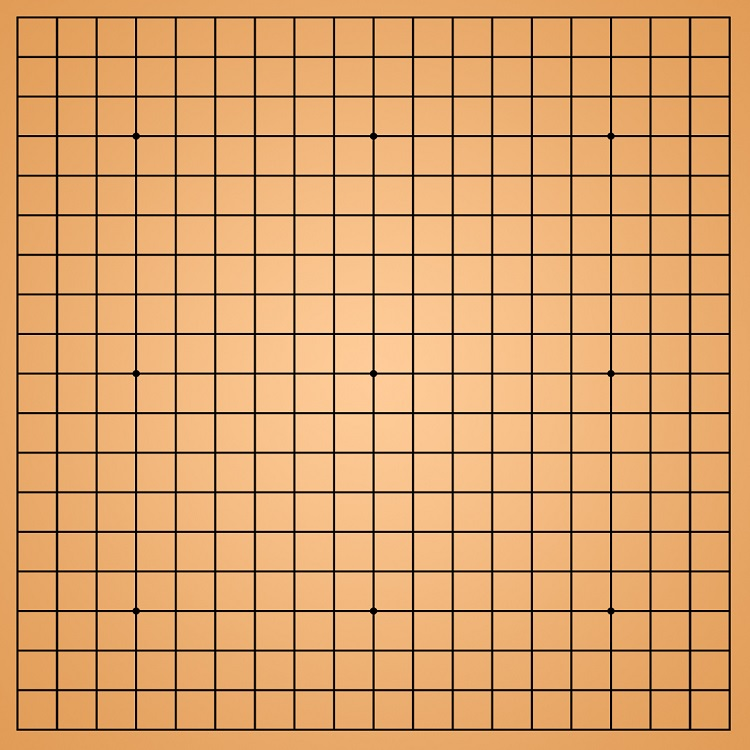
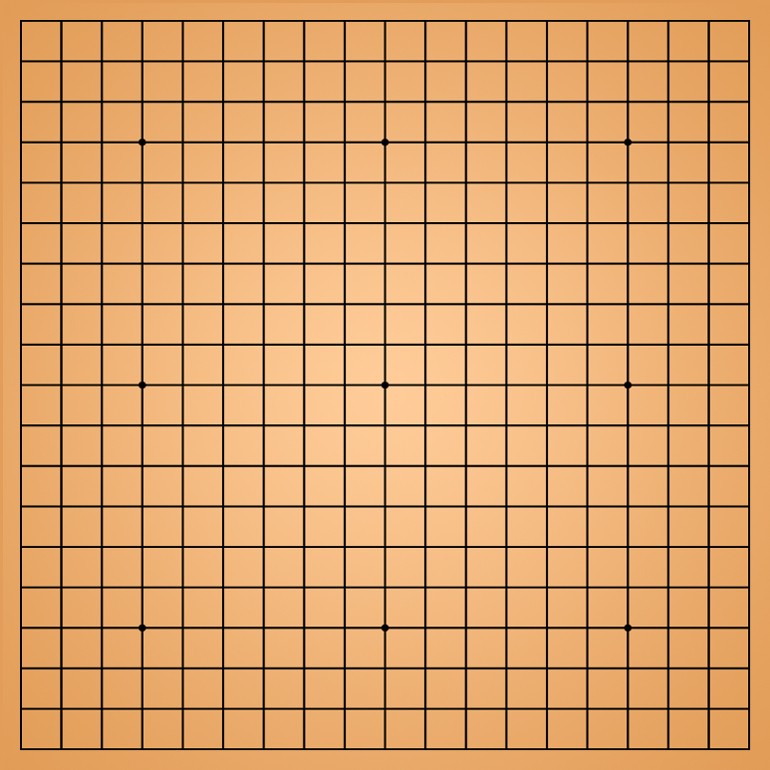
Put stones with mouse (PvP), update graphic and window size.

Changed region(s): [[0.0, 0.0, 0.9813, 0.9813]]

diff --git a/launcher.py b/launcher.py
@@ -2,74 +2,26 @@
 # -*- coding: utf-8 -*-
 # @author: beauge_z
 
-import sys, pygame
+import sys
+from options import *
+import gameplay
+
+import pygame
 
 class Launcher:
+    """
+    Class allowing pygame to load.
+    """
     pygame.init()
     pygame.display.set_caption('Gomoku')
-    screen = None
-    font = pygame.font.Font('./font/electroharmonix.ttf', 40)
-    class Option:
-        hover = False
-        def __init__(self, text, pos, mfont, screen, func):
-            self.text = text
-            self.pos = pos
-            self.mFont = mfont
-            self.screen = screen
-            self.setSurf()
-            self.draw()
-            self.func = func
-        def draw(self):
-            self.getRender()
-            self.screen.blit(self.render, self.surf)
-        def getRender(self):
-            self.render = self.mFont.render(self.text, True, self.getColor())
-        def getColor(self):
-            if self.hover:
-                return (232, 95, 137)
-            else:
-                return (0, 0, 0)
-        def setSurf(self):
-            self.getRender()
-            self.surf = self.render.get_rect()
-            self.surf.bottomright = self.pos
-
-    def loadPvP(self):
-        run = True
-        while run:
-            bg = pygame.image.load('./img/Goban.jpg')
-            self.screen.blit(bg, (0,0))
-            for e in pygame.event.get():
-                if e.type == pygame.QUIT:
-                    run = False
-                elif e.type == pygame.KEYDOWN:
-                    if e.key == pygame.K_ESCAPE:
-                        run = False
-            pygame.display.update()
-        return True
-
-    def loadPvAI(self):
-        run = True
-        while run:
-            bg = pygame.image.load('./img/Goban.jpg')
-            self.screen.blit(bg, (0,0))
-            for e in pygame.event.get():
-                if e.type == pygame.QUIT:
-                    run = False
-                elif e.type == pygame.KEYDOWN:
-                    if e.key == pygame.K_ESCAPE:
-                        run = False
-            pygame.display.update()
-        return True
-
-    def mQuit(self):
-        return False
-
+    pygame.display.set_icon(pygame.image.load('./img/ico.png'))
     def __init__(self):
-        self.screen = pygame.display.set_mode((750, 750))
-        self.options = [self.Option("Player VS Player", (730, 430), self.font, self.screen, self.loadPvP),
-                        self.Option("Player VS IA", (730, 480), self.font, self.screen, self.loadPvAI),
-                        self.Option("Quit", (730, 730), self.font, self.screen, self.mQuit)]
+        self.font = pygame.font.Font('./font/electroharmonix.ttf', 40)
+        self.screen = pygame.display.set_mode((770, 770))
+        self.options = [Option("Player VS Player", (750, 430), self.font, self.screen, gameplay.loadPvP),
+                        Option("Player VS IA", (750, 480), self.font, self.screen, gameplay.loadPvAI),
+                        Option("Quit", (750, 750), self.font, self.screen, gameplay.rFalse)]
+
     def launch(self):
         run = True
         while run:
@@ -86,16 +38,13 @@ class Launcher:
                     if option.surf.collidepoint(pygame.mouse.get_pos()):
                         option.hover = True
                         if e.type == pygame.MOUSEBUTTONDOWN and e.button == 1:
-                            run = option.func()
+                            run = option.func(self.screen, self.font)
                     else:
                         option.hover = False
                     option.draw()
             for option in self.options:
                 if option.surf.collidepoint(pygame.mouse.get_pos()):
                     option.hover = True
-                    for e in pygame.event.get():
-                        if e.type == pygame.MOUSEBUTTONDOWN and e.button == 1:
-                            run = option.func()
                 else:
                     option.hover = False
                 option.draw()

diff --git a/gameplay.py b/gameplay.py
@@ -1,0 +1,117 @@
+#!/usr/bin/env python3
+# -*- coding: utf-8 -*-
+# @author: beauge_z
+
+import sys
+from options import *
+
+import pygame
+
+def mNone(x=0, y=0):
+    return(False, False)
+
+def mResume(x=0, y=0):
+    return (True, False)
+
+def mQuit(x=0, y=0):
+    return (False, True)
+
+def rFalse(x=0, y=0):
+    return False
+
+def rTrue(x=0, y=0):
+    return True
+
+def paused(screen, font):
+    resume = False
+    xquit = False
+    options = [Option("Paused", (450, 320), font, screen, mNone),
+               Option("Resume", (180, 480), font, screen, mResume),
+               Option("Quit", (730, 480), font, screen, mQuit)]
+    while not (resume or xquit):
+        pygame.draw.rect(screen, (255, 255, 255), (0, 275, 750, 200))
+        for e in pygame.event.get():
+            if e.type == pygame.QUIT:
+                resume = False
+            elif e.type == pygame.KEYDOWN:
+                if e.key == pygame.K_ESCAPE:
+                    resume = False
+            for option in options:
+                if option.surf.collidepoint(pygame.mouse.get_pos()):
+                    option.hover = True
+                    if e.type == pygame.MOUSEBUTTONDOWN and e.button == 1:
+                        resume, xquit = option.func()
+                        print(not(resume or xquit))
+                else:
+                    option.hover = False
+                option.draw()
+        print('->', not(resume or xquit))
+        for option in options:
+            if option.surf.collidepoint(pygame.mouse.get_pos()):
+                option.hover = True
+            else:
+                option.hover = False
+            option.draw()
+        pygame.display.update()
+        pygame.time.Clock().tick(60)
+    return (resume)
+
+def loadPvAI(screen, font):
+    run = True
+    board = list()
+    for j in range(0, 19):
+        a = list()
+        for i in range(0, 19):
+            a.append(None)
+        board.append(a)
+    while run:
+        bg = pygame.image.load('./img/Goban.jpg')
+        screen.blit(bg, (0,0))
+        for e in pygame.event.get():
+            if e.type == pygame.QUIT:
+                run = False
+            elif e.type == pygame.KEYDOWN:
+                if e.key == pygame.K_ESCAPE:
+                    run = False
+        pygame.display.update()
+    return True
+
+def loadPvP(screen, font):
+    run = True
+    board = list()
+    playerColor = 'b'
+    for j in range(0, 19):
+        a = list()
+        for i in range(0, 19):
+            a.append(None)
+        board.append(a)
+    while run:
+        bg = pygame.image.load('./img/Goban.jpg')
+        w = pygame.image.load('./img/stoneW.png').convert_alpha()
+        b = pygame.image.load('./img/stoneB.png').convert_alpha()
+        screen.blit(bg, (0,0))
+        for j in range(0,19):
+            for i in range(0,19):
+                x = j*(35+5)+5
+                y = i*(35+5)+5
+                if (board[j][i] == 'b'):
+                    screen.blit(b, (round(x), round(y)))
+                elif (board[j][i] == 'w'):
+                    screen.blit(w, (round(x), round(y)))
+        for e in pygame.event.get():
+            if e.type == pygame.QUIT:
+                run = False
+            elif e.type == pygame.KEYDOWN:
+                if e.key == pygame.K_ESCAPE:
+                    run = False
+            elif e.type == pygame.MOUSEBUTTONDOWN and e.button == 1:
+                x, y = pygame.mouse.get_pos()
+                if (board[int((x-5)/40)][int((y-5)/40)] == None):
+                    board[int((x-5)/40)][int((y-5)/40)] = playerColor
+                    playerColor = 'w' if playerColor == 'b' else 'b'
+        x, y = pygame.mouse.get_pos()
+        x = int((x-5)/40)*(35+5)+5
+        y = int((y-5)/40)*(35+5)+5
+        screen.blit(w if playerColor == 'w' else b, (round(x), round(y)))
+        pygame.display.update()
+    return True

diff --git a/options.py b/options.py
@@ -1,0 +1,28 @@
+class Option:
+    """
+    Class for the menu button, with mouse hovering.
+    """
+    hover = False
+    def __init__(self, text, pos, mfont, screen, func):
+        self.text = text
+        self.pos = pos
+        self.mFont = mfont
+        self.screen = screen
+        self.setSurf()
+        self.draw()
+        self.func = func
+
+    def draw(self):
+        self.render = self.mFont.render(self.text, True, self.getColor())
+        self.screen.blit(self.render, self.surf)
+
+    def getColor(self):
+        if self.hover:
+            return (232, 95, 137)
+        else:
+            return (0, 0, 0)
+
+    def setSurf(self):
+        self.render = self.mFont.render(self.text, True, self.getColor())
+        self.surf = self.render.get_rect()
+        self.surf.bottomright = self.pos
